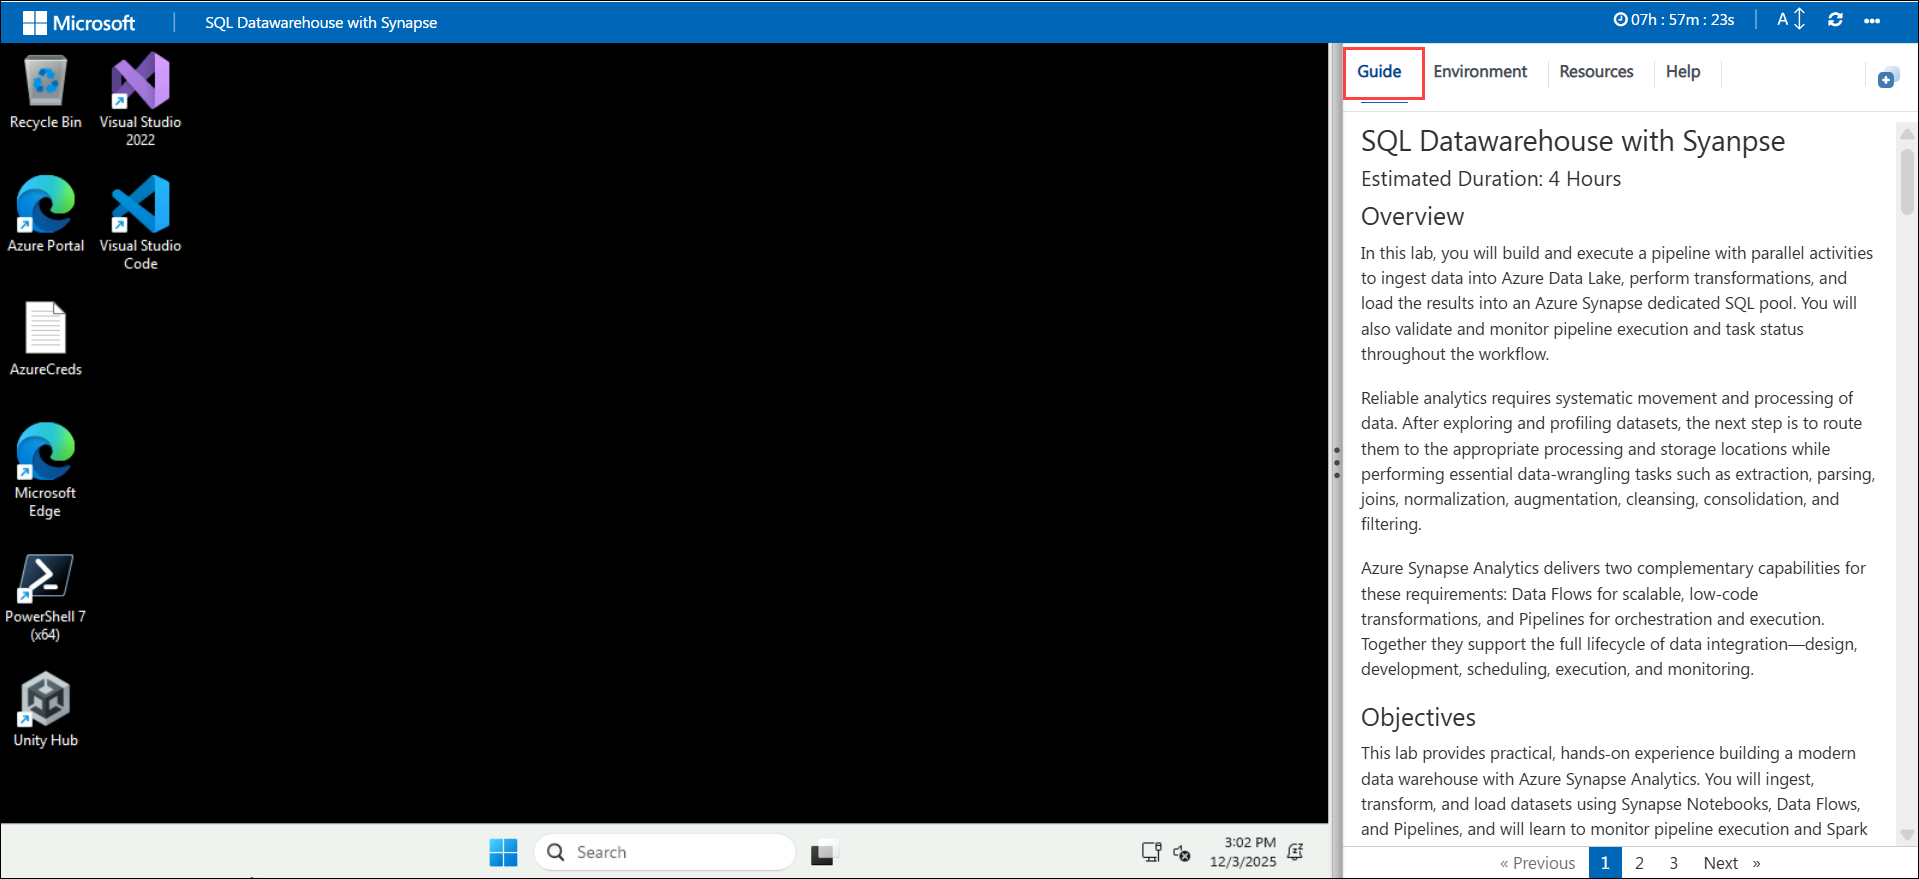
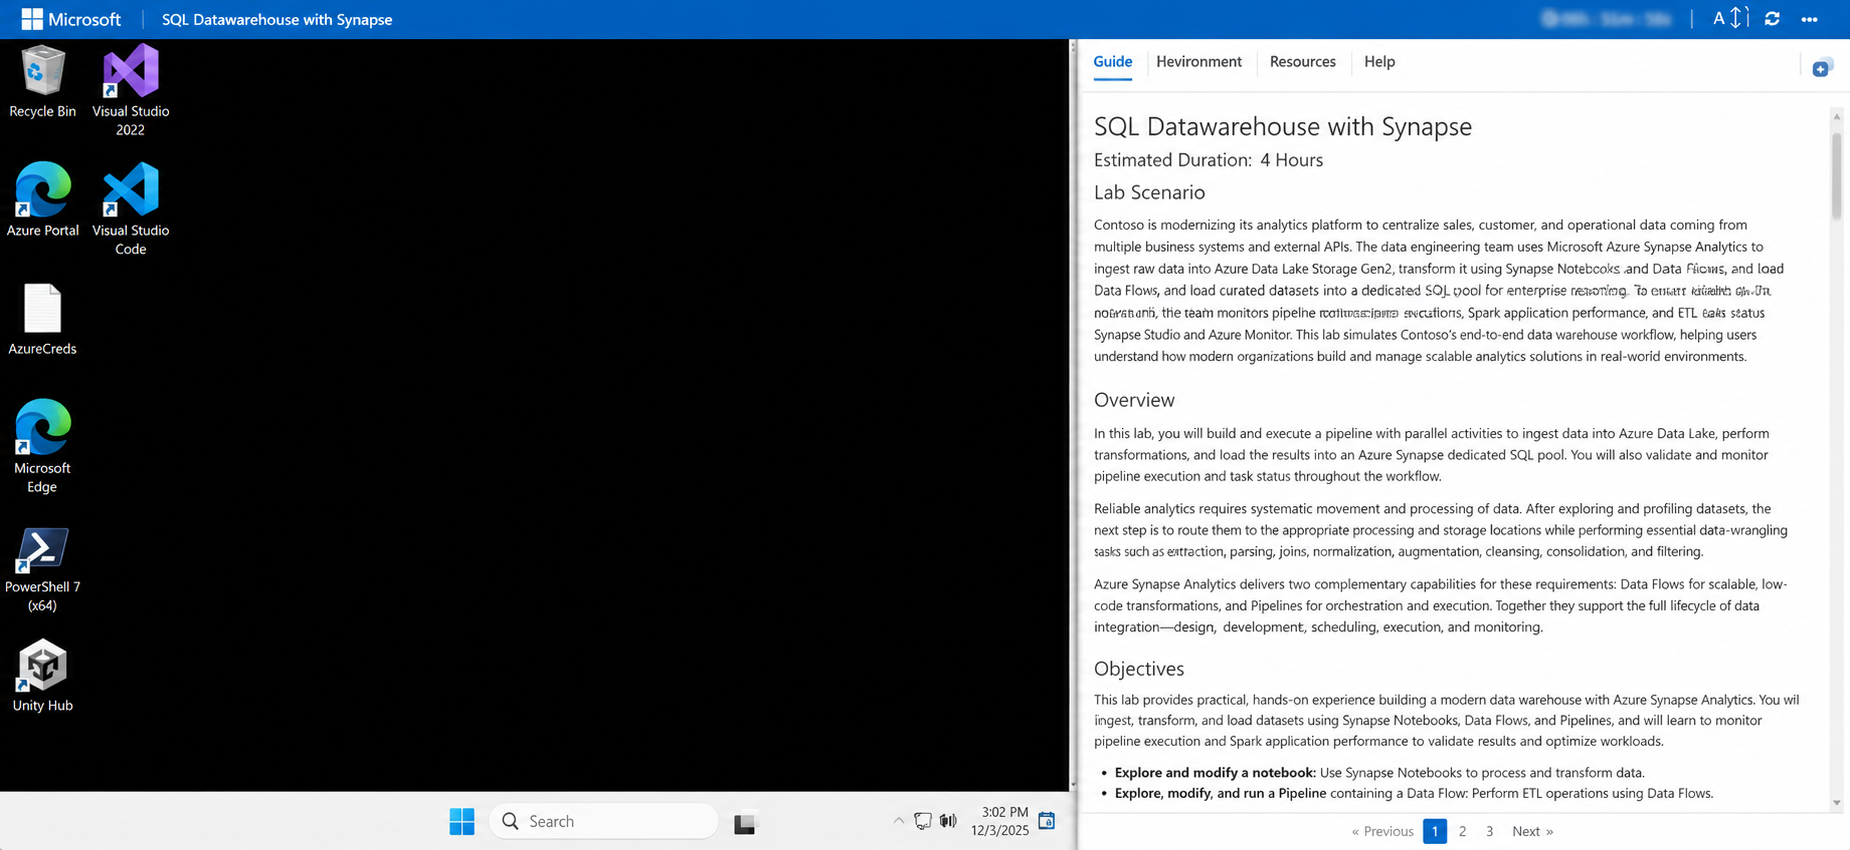
Updated Lab guide

diff --git a/ms-spl-create-and-publish-powerbi-dashboards-reports/gettingstarted.md b/ms-spl-create-and-publish-powerbi-dashboards-reports/gettingstarted.md
@@ -27,6 +27,8 @@ This lab provides practical, hands‑on experience building a modern data wareho
 
 Participants should have the following prerequisites:
 
+- **An active Microsoft Azure subscription** to deploy and manage Azure resources.
+- **An Azure Entra ID user account** with sufficient permissions to create and manage resources within the Azure subscription.
 - **Basic familiarity with Azure services**: Understanding of Azure Synapse Analytics, Data Lake Storage, and Azure Monitor.
 - **Fundamental knowledge of data processing**: Awareness of ETL (Extract, Transform, Load) concepts and structured data handling.
 - **No prior experience with Synapse Pipelines required**: This lab introduces low-code and code-based approaches for data processing.
@@ -54,11 +56,11 @@ The architecture for this lab involves several key components:
   
 ## Getting Started with Lab
 
-We've prepared an interactive environment for you to explore Synapse Pipelines, Notebooks, Data Flows, and Spark monitoring. 
+Welcome to your SQL Datawarehouse with Synapse! We've prepared an interactive environment for you to explore Synapse Pipelines, Notebooks, Data Flows, and Spark monitoring. 
 
 ## Accessing Your Lab Environment
  
-Once you're ready to dive in, your virtual machine and **Lab Guide** will be right at your fingertips within your web browser.
+Once you're ready to dive in, your virtual machine and **Guide** will be right at your fingertips within your web browser.
 
    ![](../media/guide-0312.png) 
 
@@ -90,7 +92,7 @@ Feel free to **Start, Stop, or Restart (2)** your virtual machine as needed from
 
 ## Lab Guide Zoom In/Zoom Out
  
-To adjust the zoom level for the environment page, click the **A↕ : 100%** icon located next to the timer in the lab environment.
+To adjust the zoom level for the environment page, click the **A↕** icon located next to the timer in the lab environment.
 
    ![](../media/s6.png)
 
